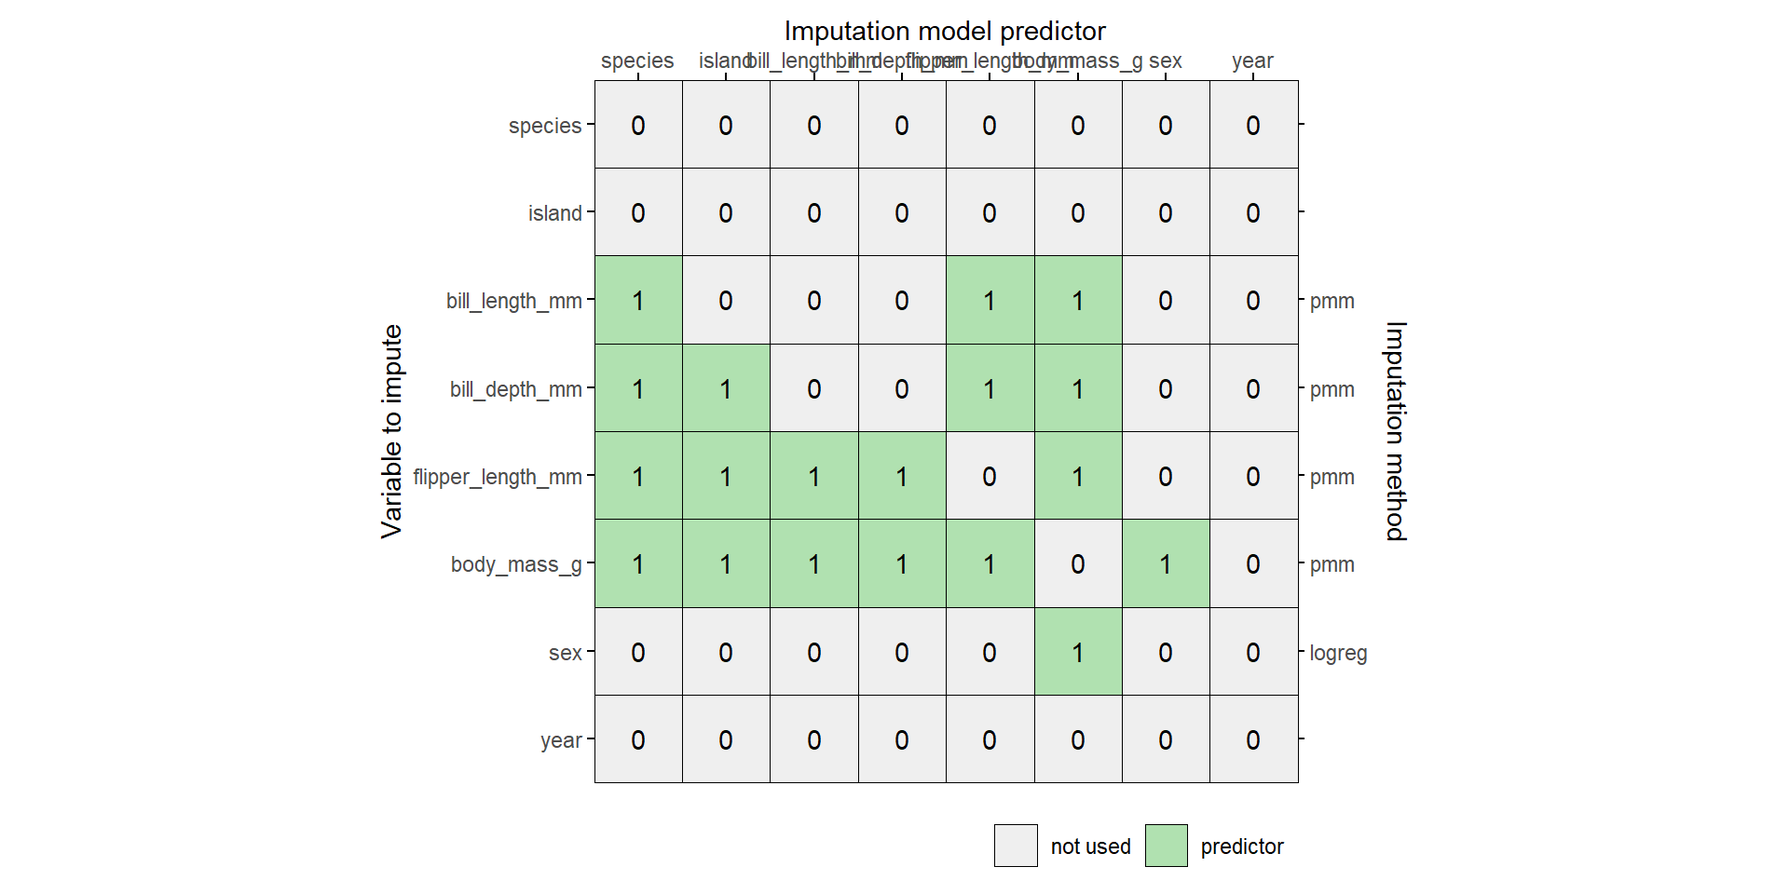
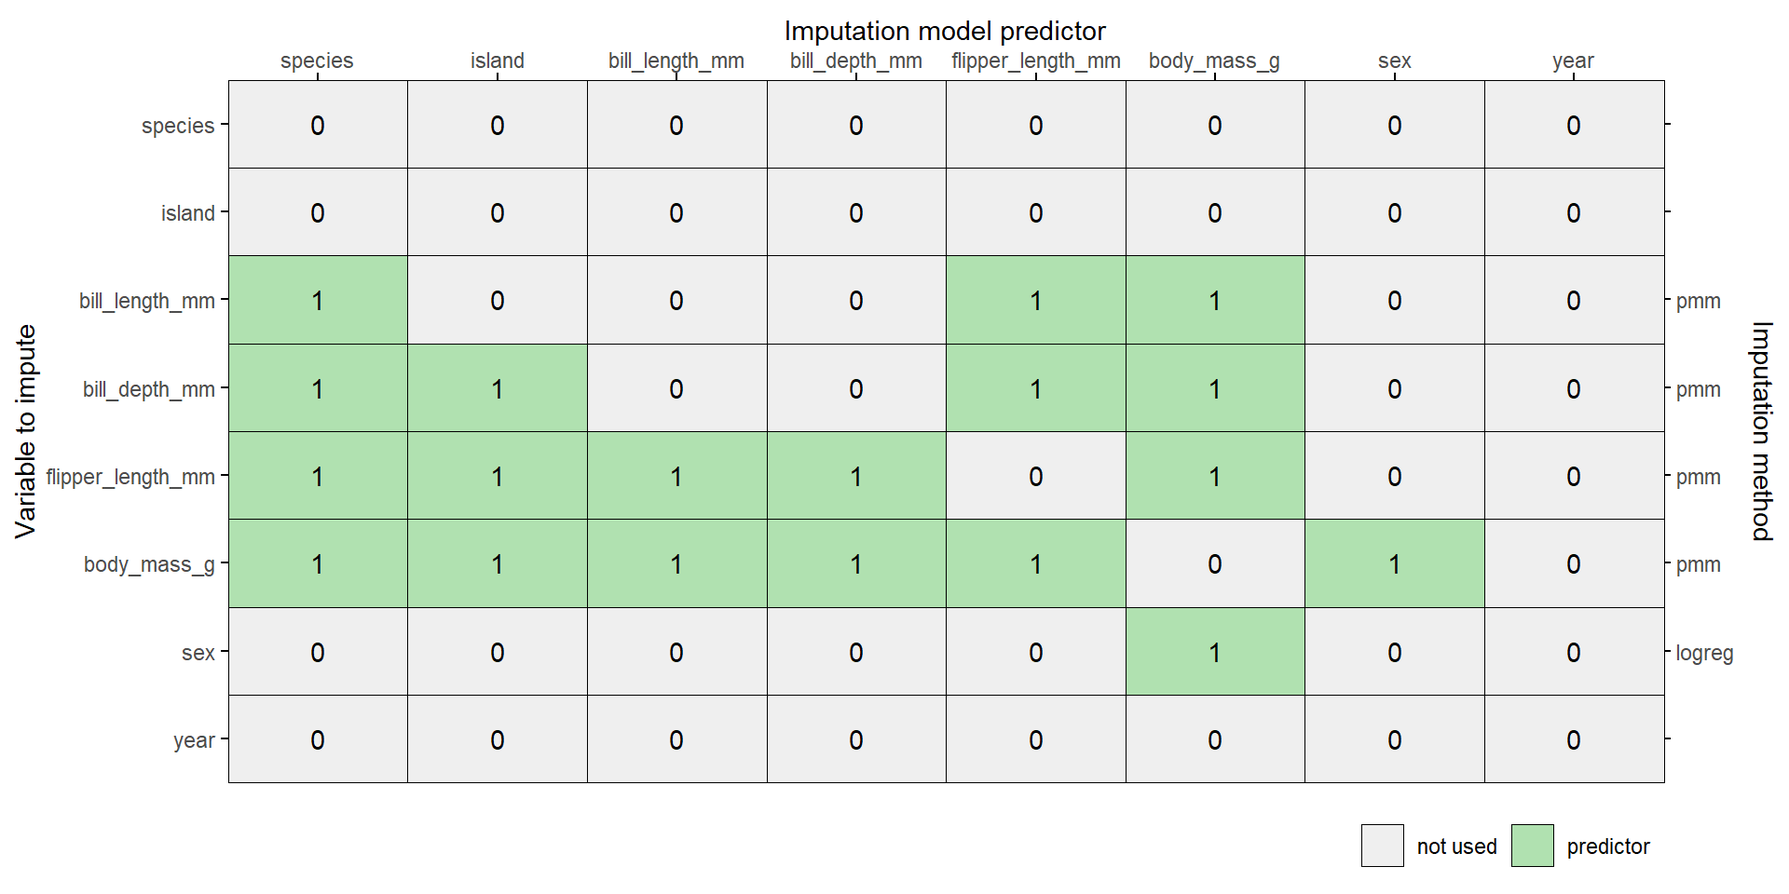
fit image penguins to slide

diff --git a/2024/VVSOR/Data_visualization_for_incomplete_datasets_in_R.html b/2024/VVSOR/Data_visualization_for_incomplete_datasets_in_R.html
@@ -420,7 +420,10 @@ Hanne Oberman
 <span id="cb1-4"><a href="#cb1-4"></a><span class="fu">library</span>(ggmice)</span>
 <span id="cb1-5"><a href="#cb1-5"></a><span class="fu">library</span>(ggplot2)</span></code><button title="Copy to Clipboard" class="code-copy-button"><i class="bi"></i></button></pre></div>
 </div>
-<p><img data-src="https://allisonhorst.github.io/palmerpenguins/reference/figures/lter_penguins.png" data-fig-align="center"> ## Penguin populations</p>
+
+<img data-src="https://allisonhorst.github.io/palmerpenguins/reference/figures/lter_penguins.png" style="width:60.0%" class="r-stretch quarto-figure-center"></section>
+<section id="penguin-populations" class="slide level2">
+<h2>Penguin populations</h2>
 <div class="cell">
 <details>
 <summary>Code</summary>
@@ -429,12 +432,10 @@ Hanne Oberman
 <span id="cb2-3"><a href="#cb2-3"></a>  <span class="fu">scale_x_continuous</span>(<span class="at">breaks =</span> <span class="fu">c</span>(<span class="dv">2007</span>, <span class="dv">2008</span>, <span class="dv">2009</span>)) <span class="sc">+</span></span>
 <span id="cb2-4"><a href="#cb2-4"></a>  <span class="fu">theme_classic</span>()</span></code><button title="Copy to Clipboard" class="code-copy-button"><i class="bi"></i></button></pre></div>
 </details>
-<div class="cell-output-display">
-<p><img data-src="Data_visualization_for_incomplete_datasets_in_R_files/figure-revealjs/unnamed-chunk-2-1.png" width="960"></p>
+
 </div>
-</div>
-</section>
-<section id="penguin-populations" class="slide level2">
+<img data-src="Data_visualization_for_incomplete_datasets_in_R_files/figure-revealjs/unnamed-chunk-2-1.png" width="960" class="r-stretch"></section>
+<section id="penguin-populations-1" class="slide level2">
 <h2>Penguin populations</h2>
 <div class="cell">
 <details>
@@ -1231,7 +1232,7 @@ flipper_length_mm       body_mass_g               sex              year
 <div class="cell">
 <div class="sourceCode cell-code" id="cb16"><pre class="sourceCode numberSource r number-lines code-with-copy"><code class="sourceCode r"><span id="cb16-1"><a href="#cb16-1"></a>pred <span class="ot">&lt;-</span> <span class="fu">quickpred</span>(penguins, <span class="at">mincor =</span> <span class="fl">0.4</span>)</span>
 <span id="cb16-2"><a href="#cb16-2"></a>meth <span class="ot">&lt;-</span> <span class="fu">make.method</span>(penguins)</span>
-<span id="cb16-3"><a href="#cb16-3"></a><span class="fu">plot_pred</span>(pred, <span class="at">method =</span> meth)</span></code><button title="Copy to Clipboard" class="code-copy-button"><i class="bi"></i></button></pre></div>
+<span id="cb16-3"><a href="#cb16-3"></a><span class="fu">plot_pred</span>(pred, <span class="at">method =</span> meth, <span class="at">square =</span> <span class="cn">FALSE</span>)</span></code><button title="Copy to Clipboard" class="code-copy-button"><i class="bi"></i></button></pre></div>
 
 </div>
 <img data-src="Data_visualization_for_incomplete_datasets_in_R_files/figure-revealjs/unnamed-chunk-12-1.png" width="960" class="r-stretch"></section>
@@ -1245,110 +1246,111 @@ flipper_length_mm       body_mass_g               sex              year
 <section id="scatter-plot" class="slide level2">
 <h2>Scatter plot</h2>
 <div class="cell">
-<div class="sourceCode cell-code" id="cb18"><pre class="sourceCode numberSource r number-lines code-with-copy"><code class="sourceCode r"><span id="cb18-1"><a href="#cb18-1"></a><span class="fu">ggplot</span>(penguins, <span class="fu">aes</span>(sex, flipper_length_mm)) <span class="sc">+</span></span>
+<div class="sourceCode cell-code" id="cb18"><pre class="sourceCode numberSource r number-lines code-with-copy"><code class="sourceCode r"><span id="cb18-1"><a href="#cb18-1"></a><span class="fu">ggmice</span>(penguins, <span class="fu">aes</span>(sex, flipper_length_mm)) <span class="sc">+</span></span>
 <span id="cb18-2"><a href="#cb18-2"></a>  <span class="fu">geom_point</span>(<span class="at">size =</span> <span class="dv">2</span>)</span></code><button title="Copy to Clipboard" class="code-copy-button"><i class="bi"></i></button></pre></div>
 
 </div>
 <img data-src="Data_visualization_for_incomplete_datasets_in_R_files/figure-revealjs/unnamed-chunk-14-1.png" width="960" class="r-stretch"></section>
-<section id="scatter-plot-1" class="slide level2">
-<h2>Scatter plot</h2>
-<div class="cell">
-<div class="sourceCode cell-code" id="cb19"><pre class="sourceCode numberSource r number-lines code-with-copy"><code class="sourceCode r"><span id="cb19-1"><a href="#cb19-1"></a><span class="fu">ggmice</span>(penguins, <span class="fu">aes</span>(sex, flipper_length_mm)) <span class="sc">+</span></span>
-<span id="cb19-2"><a href="#cb19-2"></a>  <span class="fu">geom_point</span>(<span class="at">size =</span> <span class="dv">2</span>)</span></code><button title="Copy to Clipboard" class="code-copy-button"><i class="bi"></i></button></pre></div>
-
-</div>
-<img data-src="Data_visualization_for_incomplete_datasets_in_R_files/figure-revealjs/unnamed-chunk-15-1.png" width="960" class="r-stretch"></section>
 <section id="faceted-distribution" class="slide level2">
 <h2>Faceted distribution</h2>
 <div class="cell">
-<div class="sourceCode cell-code" id="cb20"><pre class="sourceCode numberSource r number-lines code-with-copy"><code class="sourceCode r"><span id="cb20-1"><a href="#cb20-1"></a><span class="fu">ggmice</span>(penguins, <span class="fu">aes</span>(flipper_length_mm)) <span class="sc">+</span></span>
-<span id="cb20-2"><a href="#cb20-2"></a>  <span class="fu">geom_histogram</span>(<span class="at">fill =</span> <span class="st">"white"</span>) <span class="sc">+</span></span>
-<span id="cb20-3"><a href="#cb20-3"></a>  <span class="fu">facet_grid</span>(<span class="fu">factor</span>(</span>
-<span id="cb20-4"><a href="#cb20-4"></a>    <span class="fu">is.na</span>(sex), </span>
-<span id="cb20-5"><a href="#cb20-5"></a>    <span class="at">levels =</span> <span class="fu">c</span>(<span class="cn">TRUE</span>, <span class="cn">FALSE</span>), </span>
-<span id="cb20-6"><a href="#cb20-6"></a>    <span class="at">labels =</span> <span class="fu">c</span>(<span class="st">"missing sex"</span>, <span class="st">"observed sex"</span>)</span>
-<span id="cb20-7"><a href="#cb20-7"></a>    ) <span class="sc">~</span> .)</span></code><button title="Copy to Clipboard" class="code-copy-button"><i class="bi"></i></button></pre></div>
+<div class="sourceCode cell-code" id="cb19"><pre class="sourceCode numberSource r number-lines code-with-copy"><code class="sourceCode r"><span id="cb19-1"><a href="#cb19-1"></a><span class="fu">ggmice</span>(penguins, <span class="fu">aes</span>(flipper_length_mm)) <span class="sc">+</span></span>
+<span id="cb19-2"><a href="#cb19-2"></a>  <span class="fu">geom_histogram</span>(<span class="at">fill =</span> <span class="st">"white"</span>) <span class="sc">+</span></span>
+<span id="cb19-3"><a href="#cb19-3"></a>  <span class="fu">facet_grid</span>(<span class="fu">factor</span>(</span>
+<span id="cb19-4"><a href="#cb19-4"></a>    <span class="fu">is.na</span>(sex), </span>
+<span id="cb19-5"><a href="#cb19-5"></a>    <span class="at">levels =</span> <span class="fu">c</span>(<span class="cn">TRUE</span>, <span class="cn">FALSE</span>), </span>
+<span id="cb19-6"><a href="#cb19-6"></a>    <span class="at">labels =</span> <span class="fu">c</span>(<span class="st">"missing sex"</span>, <span class="st">"observed sex"</span>)</span>
+<span id="cb19-7"><a href="#cb19-7"></a>    ) <span class="sc">~</span> .)</span></code><button title="Copy to Clipboard" class="code-copy-button"><i class="bi"></i></button></pre></div>
 
 </div>
-<img data-src="Data_visualization_for_incomplete_datasets_in_R_files/figure-revealjs/unnamed-chunk-16-1.png" width="960" class="r-stretch"></section>
+<img data-src="Data_visualization_for_incomplete_datasets_in_R_files/figure-revealjs/unnamed-chunk-15-1.png" width="960" class="r-stretch"></section>
 <section id="faceted-scatter-plot" class="slide level2">
 <h2>Faceted scatter plot</h2>
 <div class="cell">
-<div class="sourceCode cell-code" id="cb21"><pre class="sourceCode numberSource r number-lines code-with-copy"><code class="sourceCode r"><span id="cb21-1"><a href="#cb21-1"></a><span class="fu">ggmice</span>(penguins, <span class="fu">aes</span>(sex, flipper_length_mm)) <span class="sc">+</span></span>
-<span id="cb21-2"><a href="#cb21-2"></a>  <span class="fu">geom_point</span>(<span class="at">size =</span> <span class="dv">2</span>) <span class="sc">+</span></span>
-<span id="cb21-3"><a href="#cb21-3"></a>  <span class="fu">facet_wrap</span>(<span class="sc">~</span>species)</span></code><button title="Copy to Clipboard" class="code-copy-button"><i class="bi"></i></button></pre></div>
+<div class="sourceCode cell-code" id="cb20"><pre class="sourceCode numberSource r number-lines code-with-copy"><code class="sourceCode r"><span id="cb20-1"><a href="#cb20-1"></a><span class="fu">ggmice</span>(penguins, <span class="fu">aes</span>(sex, flipper_length_mm)) <span class="sc">+</span></span>
+<span id="cb20-2"><a href="#cb20-2"></a>  <span class="fu">geom_point</span>(<span class="at">size =</span> <span class="dv">2</span>) <span class="sc">+</span></span>
+<span id="cb20-3"><a href="#cb20-3"></a>  <span class="fu">facet_wrap</span>(<span class="sc">~</span>species)</span></code><button title="Copy to Clipboard" class="code-copy-button"><i class="bi"></i></button></pre></div>
 
 </div>
-<img data-src="Data_visualization_for_incomplete_datasets_in_R_files/figure-revealjs/unnamed-chunk-17-1.png" width="960" class="r-stretch"></section>
+<img data-src="Data_visualization_for_incomplete_datasets_in_R_files/figure-revealjs/unnamed-chunk-16-1.png" width="960" class="r-stretch"></section>
 <section id="faceted-distribution-1" class="slide level2">
 <h2>Faceted distribution</h2>
 <div class="cell">
-<div class="sourceCode cell-code" id="cb22"><pre class="sourceCode numberSource r number-lines code-with-copy"><code class="sourceCode r"><span id="cb22-1"><a href="#cb22-1"></a><span class="fu">ggmice</span>(penguins, <span class="fu">aes</span>(flipper_length_mm)) <span class="sc">+</span></span>
-<span id="cb22-2"><a href="#cb22-2"></a>  <span class="fu">geom_histogram</span>(<span class="at">fill =</span> <span class="st">"white"</span>) <span class="sc">+</span></span>
-<span id="cb22-3"><a href="#cb22-3"></a>  <span class="fu">facet_grid</span>(<span class="fu">factor</span>(</span>
-<span id="cb22-4"><a href="#cb22-4"></a>    <span class="fu">is.na</span>(sex), </span>
-<span id="cb22-5"><a href="#cb22-5"></a>    <span class="at">levels =</span> <span class="fu">c</span>(<span class="cn">TRUE</span>, <span class="cn">FALSE</span>), </span>
-<span id="cb22-6"><a href="#cb22-6"></a>    <span class="at">labels =</span> <span class="fu">c</span>(<span class="st">"missing sex"</span>, <span class="st">"observed sex"</span>)</span>
-<span id="cb22-7"><a href="#cb22-7"></a>    ) <span class="sc">~</span> species)</span></code><button title="Copy to Clipboard" class="code-copy-button"><i class="bi"></i></button></pre></div>
+<div class="sourceCode cell-code" id="cb21"><pre class="sourceCode numberSource r number-lines code-with-copy"><code class="sourceCode r"><span id="cb21-1"><a href="#cb21-1"></a><span class="fu">ggmice</span>(penguins, <span class="fu">aes</span>(flipper_length_mm)) <span class="sc">+</span></span>
+<span id="cb21-2"><a href="#cb21-2"></a>  <span class="fu">geom_histogram</span>(<span class="at">fill =</span> <span class="st">"white"</span>) <span class="sc">+</span></span>
+<span id="cb21-3"><a href="#cb21-3"></a>  <span class="fu">facet_grid</span>(<span class="fu">factor</span>(</span>
+<span id="cb21-4"><a href="#cb21-4"></a>    <span class="fu">is.na</span>(sex), </span>
+<span id="cb21-5"><a href="#cb21-5"></a>    <span class="at">levels =</span> <span class="fu">c</span>(<span class="cn">TRUE</span>, <span class="cn">FALSE</span>), </span>
+<span id="cb21-6"><a href="#cb21-6"></a>    <span class="at">labels =</span> <span class="fu">c</span>(<span class="st">"missing sex"</span>, <span class="st">"observed sex"</span>)</span>
+<span id="cb21-7"><a href="#cb21-7"></a>    ) <span class="sc">~</span> species)</span></code><button title="Copy to Clipboard" class="code-copy-button"><i class="bi"></i></button></pre></div>
 
 </div>
-<img data-src="Data_visualization_for_incomplete_datasets_in_R_files/figure-revealjs/unnamed-chunk-18-1.png" width="960" class="r-stretch"></section>
+<img data-src="Data_visualization_for_incomplete_datasets_in_R_files/figure-revealjs/unnamed-chunk-17-1.png" width="960" class="r-stretch"></section>
 <section id="adjust-imputation-models" class="slide level2">
 <h2>Adjust imputation models</h2>
 <div class="cell">
-<div class="sourceCode cell-code" id="cb23"><pre class="sourceCode numberSource r number-lines code-with-copy"><code class="sourceCode r"><span id="cb23-1"><a href="#cb23-1"></a>pred[<span class="st">"sex"</span>, <span class="fu">c</span>(<span class="st">"species"</span>, <span class="st">"flipper_length_mm"</span>)] <span class="ot">&lt;-</span> <span class="dv">1</span></span>
-<span id="cb23-2"><a href="#cb23-2"></a>meth[<span class="st">"sex"</span>] <span class="ot">&lt;-</span> <span class="st">"pmm"</span></span>
-<span id="cb23-3"><a href="#cb23-3"></a><span class="fu">plot_pred</span>(pred, <span class="at">method =</span> meth)</span></code><button title="Copy to Clipboard" class="code-copy-button"><i class="bi"></i></button></pre></div>
+<div class="sourceCode cell-code" id="cb22"><pre class="sourceCode numberSource r number-lines code-with-copy"><code class="sourceCode r"><span id="cb22-1"><a href="#cb22-1"></a>pred[<span class="st">"sex"</span>, <span class="fu">c</span>(<span class="st">"species"</span>, <span class="st">"flipper_length_mm"</span>)] <span class="ot">&lt;-</span> <span class="dv">1</span></span>
+<span id="cb22-2"><a href="#cb22-2"></a>meth[<span class="st">"sex"</span>] <span class="ot">&lt;-</span> <span class="st">"pmm"</span></span>
+<span id="cb22-3"><a href="#cb22-3"></a><span class="fu">plot_pred</span>(pred, <span class="at">method =</span> meth)</span></code><button title="Copy to Clipboard" class="code-copy-button"><i class="bi"></i></button></pre></div>
 
 </div>
-<img data-src="Data_visualization_for_incomplete_datasets_in_R_files/figure-revealjs/unnamed-chunk-19-1.png" width="960" class="r-stretch"></section>
+<img data-src="Data_visualization_for_incomplete_datasets_in_R_files/figure-revealjs/unnamed-chunk-18-1.png" width="960" class="r-stretch"></section>
 <section id="impute" class="slide level2">
 <h2>Impute</h2>
 <div class="cell">
-<div class="sourceCode cell-code" id="cb24"><pre class="sourceCode numberSource r number-lines code-with-copy"><code class="sourceCode r"><span id="cb24-1"><a href="#cb24-1"></a>imp <span class="ot">&lt;-</span> <span class="fu">mice</span>(</span>
-<span id="cb24-2"><a href="#cb24-2"></a>  penguins, </span>
-<span id="cb24-3"><a href="#cb24-3"></a>  <span class="at">pred =</span> pred, </span>
-<span id="cb24-4"><a href="#cb24-4"></a>  <span class="at">method =</span> meth, </span>
-<span id="cb24-5"><a href="#cb24-5"></a>  <span class="at">m =</span> <span class="dv">20</span>,</span>
-<span id="cb24-6"><a href="#cb24-6"></a>  <span class="at">print =</span> <span class="cn">FALSE</span>)</span>
-<span id="cb24-7"><a href="#cb24-7"></a><span class="fu">plot_trace</span>(imp)</span></code><button title="Copy to Clipboard" class="code-copy-button"><i class="bi"></i></button></pre></div>
+<div class="sourceCode cell-code" id="cb23"><pre class="sourceCode numberSource r number-lines code-with-copy"><code class="sourceCode r"><span id="cb23-1"><a href="#cb23-1"></a>imp <span class="ot">&lt;-</span> <span class="fu">mice</span>(</span>
+<span id="cb23-2"><a href="#cb23-2"></a>  penguins, </span>
+<span id="cb23-3"><a href="#cb23-3"></a>  <span class="at">pred =</span> pred, </span>
+<span id="cb23-4"><a href="#cb23-4"></a>  <span class="at">method =</span> meth, </span>
+<span id="cb23-5"><a href="#cb23-5"></a>  <span class="at">m =</span> <span class="dv">20</span>,</span>
+<span id="cb23-6"><a href="#cb23-6"></a>  <span class="at">print =</span> <span class="cn">FALSE</span>)</span>
+<span id="cb23-7"><a href="#cb23-7"></a><span class="fu">plot_trace</span>(imp)</span></code><button title="Copy to Clipboard" class="code-copy-button"><i class="bi"></i></button></pre></div>
+
+</div>
+<img data-src="Data_visualization_for_incomplete_datasets_in_R_files/figure-revealjs/unnamed-chunk-19-1.png" width="960" class="r-stretch"></section>
+<section id="stripplot" class="slide level2">
+<h2>Stripplot</h2>
+<div class="cell">
+<div class="sourceCode cell-code" id="cb24"><pre class="sourceCode numberSource r number-lines code-with-copy"><code class="sourceCode r"><span id="cb24-1"><a href="#cb24-1"></a><span class="fu">ggmice</span>(imp, <span class="fu">aes</span>(<span class="at">x =</span> .imp, <span class="at">y =</span> flipper_length_mm)) <span class="sc">+</span></span>
+<span id="cb24-2"><a href="#cb24-2"></a>  <span class="fu">geom_point</span>() <span class="sc">+</span></span>
+<span id="cb24-3"><a href="#cb24-3"></a>  <span class="fu">labs</span>(<span class="at">x =</span> <span class="st">"Imputation number"</span>)</span></code><button title="Copy to Clipboard" class="code-copy-button"><i class="bi"></i></button></pre></div>
 
 </div>
 <img data-src="Data_visualization_for_incomplete_datasets_in_R_files/figure-revealjs/unnamed-chunk-20-1.png" width="960" class="r-stretch"></section>
-<section id="boxplot" class="slide level2">
-<h2>Boxplot</h2>
+<section id="stripplot-1" class="slide level2">
+<h2>Stripplot</h2>
 <div class="cell">
-<div class="sourceCode cell-code" id="cb25"><pre class="sourceCode numberSource r number-lines code-with-copy"><code class="sourceCode r"><span id="cb25-1"><a href="#cb25-1"></a><span class="fu">ggmice</span>(imp, <span class="fu">aes</span>(<span class="at">x =</span> .imp, <span class="at">y =</span> flipper_length_mm)) <span class="sc">+</span></span>
-<span id="cb25-2"><a href="#cb25-2"></a>  <span class="fu">geom_point</span>() <span class="sc">+</span></span>
+<div class="sourceCode cell-code" id="cb25"><pre class="sourceCode numberSource r number-lines code-with-copy"><code class="sourceCode r"><span id="cb25-1"><a href="#cb25-1"></a><span class="fu">ggmice</span>(imp, <span class="fu">aes</span>(<span class="at">x =</span> .imp, <span class="at">y =</span> sex)) <span class="sc">+</span></span>
+<span id="cb25-2"><a href="#cb25-2"></a>  <span class="fu">geom_jitter</span>(<span class="at">width =</span> <span class="fl">0.05</span>) <span class="sc">+</span></span>
 <span id="cb25-3"><a href="#cb25-3"></a>  <span class="fu">labs</span>(<span class="at">x =</span> <span class="st">"Imputation number"</span>)</span></code><button title="Copy to Clipboard" class="code-copy-button"><i class="bi"></i></button></pre></div>
 
 </div>
 <img data-src="Data_visualization_for_incomplete_datasets_in_R_files/figure-revealjs/unnamed-chunk-21-1.png" width="960" class="r-stretch"></section>
-<section id="faceted-distribution-2" class="slide level2">
-<h2>Faceted distribution</h2>
+<section id="scatter-plot-1" class="slide level2">
+<h2>Scatter plot</h2>
 <div class="cell">
-<div class="sourceCode cell-code" id="cb26"><pre class="sourceCode numberSource r number-lines code-with-copy"><code class="sourceCode r"><span id="cb26-1"><a href="#cb26-1"></a><span class="fu">ggmice</span>(imp, <span class="fu">aes</span>(flipper_length_mm)) <span class="sc">+</span></span>
-<span id="cb26-2"><a href="#cb26-2"></a>  <span class="fu">geom_histogram</span>(<span class="at">fill =</span> <span class="st">"white"</span>) <span class="sc">+</span></span>
-<span id="cb26-3"><a href="#cb26-3"></a>  <span class="fu">facet_grid</span>(<span class="sc">~</span> species)</span></code><button title="Copy to Clipboard" class="code-copy-button"><i class="bi"></i></button></pre></div>
+<div class="sourceCode cell-code" id="cb26"><pre class="sourceCode numberSource r number-lines code-with-copy"><code class="sourceCode r"><span id="cb26-1"><a href="#cb26-1"></a><span class="fu">ggmice</span>(imp, <span class="fu">aes</span>(sex, flipper_length_mm)) <span class="sc">+</span></span>
+<span id="cb26-2"><a href="#cb26-2"></a>  <span class="fu">geom_point</span>() <span class="sc">+</span></span>
+<span id="cb26-3"><a href="#cb26-3"></a>  <span class="fu">facet_grid</span>(<span class="sc">~</span>species)</span></code><button title="Copy to Clipboard" class="code-copy-button"><i class="bi"></i></button></pre></div>
 
 </div>
 <img data-src="Data_visualization_for_incomplete_datasets_in_R_files/figure-revealjs/unnamed-chunk-22-1.png" width="960" class="r-stretch"></section>
-<section id="scatter-plot-2" class="slide level2">
-<h2>Scatter plot</h2>
-<div class="cell">
-<div class="sourceCode cell-code" id="cb27"><pre class="sourceCode numberSource r number-lines code-with-copy"><code class="sourceCode r"><span id="cb27-1"><a href="#cb27-1"></a><span class="fu">ggmice</span>(imp, <span class="fu">aes</span>(sex, flipper_length_mm)) <span class="sc">+</span></span>
-<span id="cb27-2"><a href="#cb27-2"></a>  <span class="fu">geom_point</span>() <span class="sc">+</span></span>
-<span id="cb27-3"><a href="#cb27-3"></a>  <span class="fu">facet_grid</span>(<span class="sc">~</span>species)</span></code><button title="Copy to Clipboard" class="code-copy-button"><i class="bi"></i></button></pre></div>
-
-</div>
-<img data-src="Data_visualization_for_incomplete_datasets_in_R_files/figure-revealjs/unnamed-chunk-23-1.png" width="960" class="r-stretch"></section>
 <section id="scatter-plot-with-boxplot" class="slide level2">
 <h2>Scatter plot with boxplot</h2>
 <div class="cell">
-<div class="sourceCode cell-code" id="cb28"><pre class="sourceCode numberSource r number-lines code-with-copy"><code class="sourceCode r"><span id="cb28-1"><a href="#cb28-1"></a><span class="fu">ggmice</span>(imp, <span class="fu">aes</span>(sex, flipper_length_mm)) <span class="sc">+</span></span>
-<span id="cb28-2"><a href="#cb28-2"></a>  <span class="fu">geom_point</span>() <span class="sc">+</span></span>
-<span id="cb28-3"><a href="#cb28-3"></a>  <span class="fu">geom_boxplot</span>() <span class="sc">+</span></span>
-<span id="cb28-4"><a href="#cb28-4"></a>  <span class="fu">facet_grid</span>(<span class="sc">~</span>species)</span></code><button title="Copy to Clipboard" class="code-copy-button"><i class="bi"></i></button></pre></div>
+<div class="sourceCode cell-code" id="cb27"><pre class="sourceCode numberSource r number-lines code-with-copy"><code class="sourceCode r"><span id="cb27-1"><a href="#cb27-1"></a><span class="fu">ggmice</span>(imp, <span class="fu">aes</span>(sex, flipper_length_mm)) <span class="sc">+</span></span>
+<span id="cb27-2"><a href="#cb27-2"></a>  <span class="fu">geom_point</span>() <span class="sc">+</span></span>
+<span id="cb27-3"><a href="#cb27-3"></a>  <span class="fu">geom_boxplot</span>() <span class="sc">+</span></span>
+<span id="cb27-4"><a href="#cb27-4"></a>  <span class="fu">facet_grid</span>(<span class="sc">~</span>species)</span></code><button title="Copy to Clipboard" class="code-copy-button"><i class="bi"></i></button></pre></div>
+
+</div>
+<img data-src="Data_visualization_for_incomplete_datasets_in_R_files/figure-revealjs/unnamed-chunk-23-1.png" width="960" class="r-stretch"></section>
+<section id="faceted-distribution-2" class="slide level2">
+<h2>Faceted distribution</h2>
+<div class="cell">
+<div class="sourceCode cell-code" id="cb28"><pre class="sourceCode numberSource r number-lines code-with-copy"><code class="sourceCode r"><span id="cb28-1"><a href="#cb28-1"></a><span class="fu">ggmice</span>(imp, <span class="fu">aes</span>(sex, <span class="at">group =</span> .imp)) <span class="sc">+</span></span>
+<span id="cb28-2"><a href="#cb28-2"></a>  <span class="fu">geom_histogram</span>(<span class="at">fill =</span> <span class="st">"white"</span>, <span class="at">stat=</span><span class="st">"count"</span>) <span class="sc">+</span></span>
+<span id="cb28-3"><a href="#cb28-3"></a>  <span class="fu">facet_grid</span>(<span class="sc">~</span> species)</span></code><button title="Copy to Clipboard" class="code-copy-button"><i class="bi"></i></button></pre></div>
 
 </div>
 <img data-src="Data_visualization_for_incomplete_datasets_in_R_files/figure-revealjs/unnamed-chunk-24-1.png" width="960" class="r-stretch"></section>
